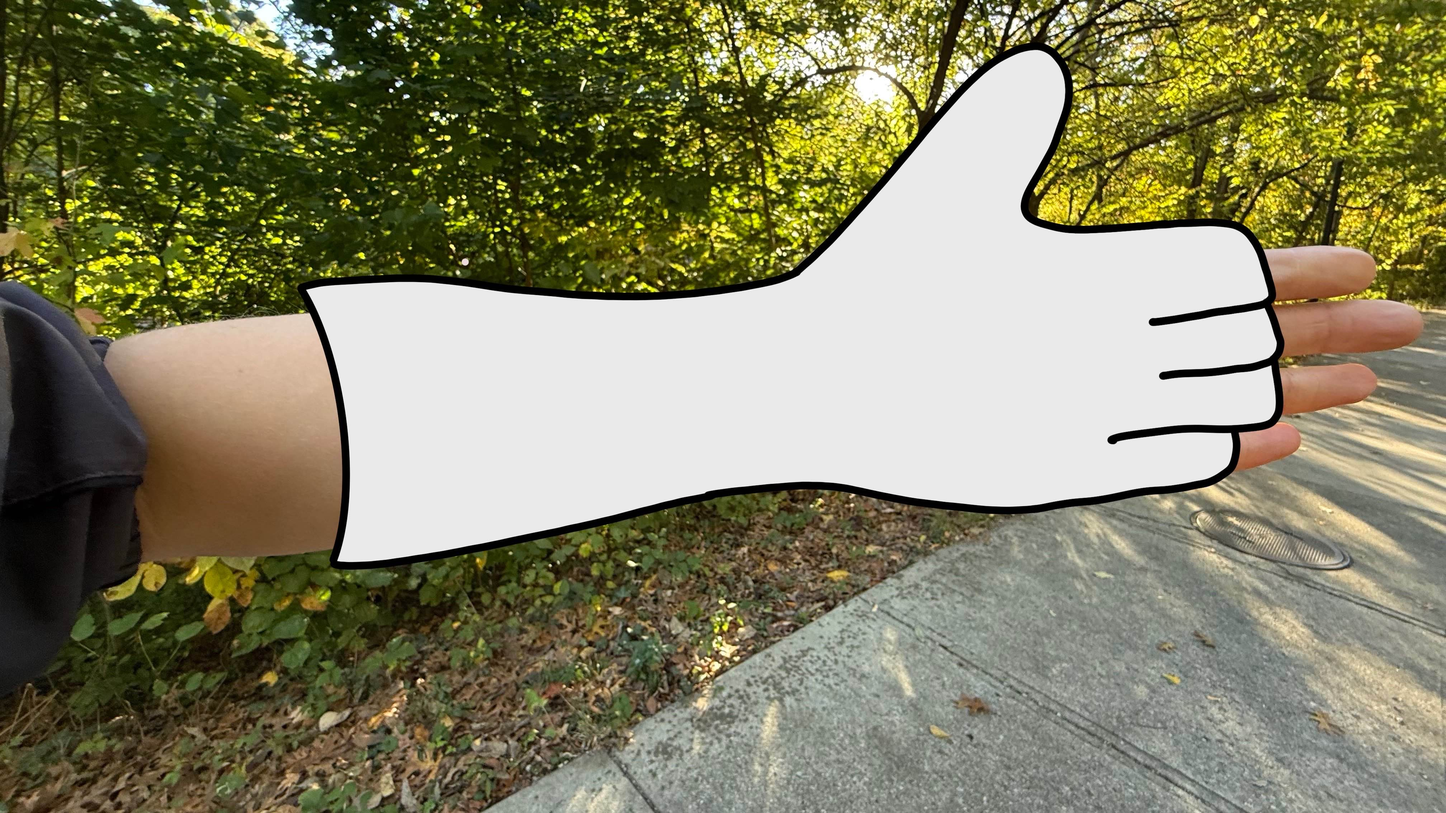
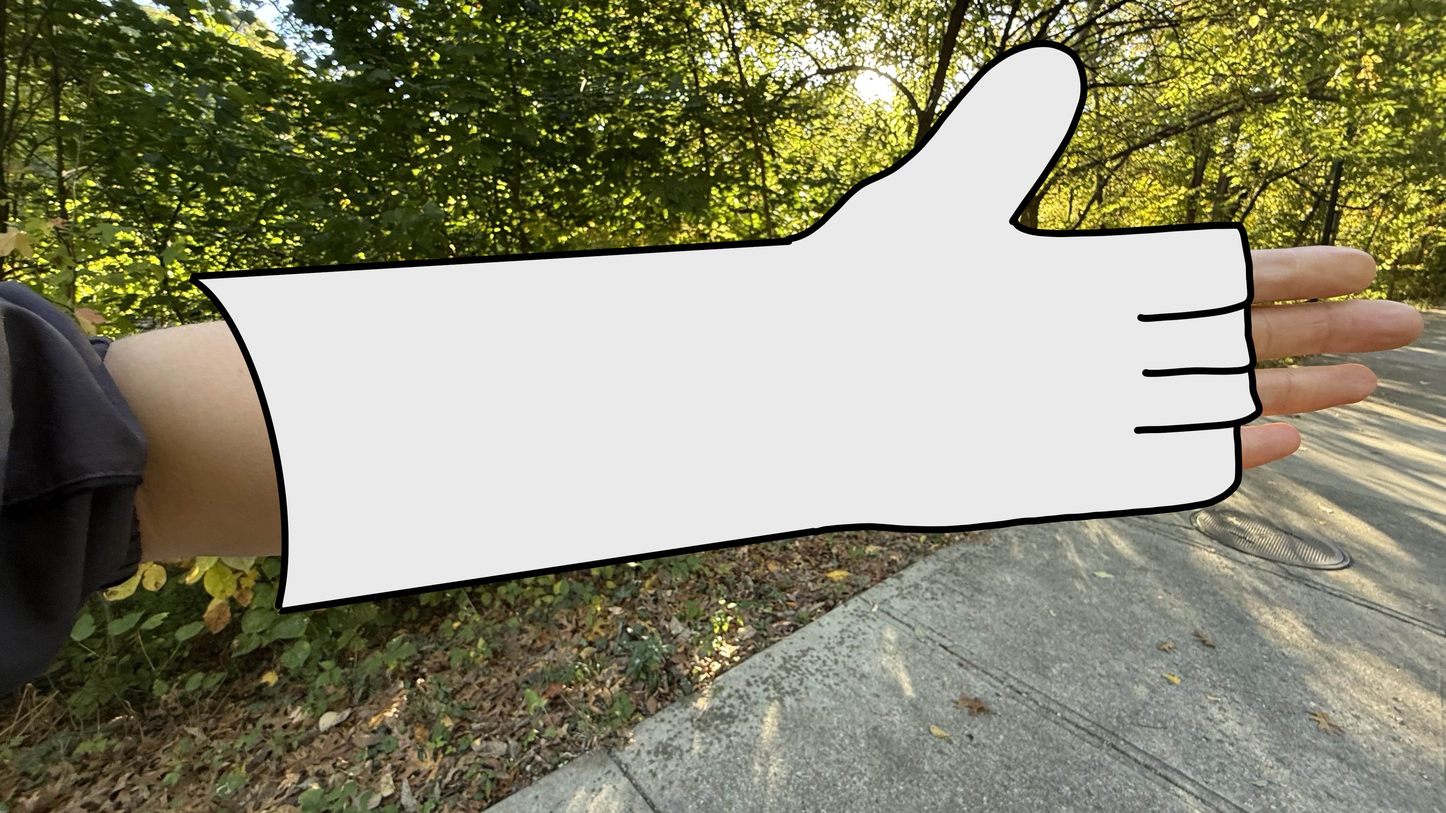
Background and rotation

diff --git a/my-svelte-app/src/HandCast.svelte b/my-svelte-app/src/HandCast.svelte
@@ -11,7 +11,7 @@
   let hydration = 50;
   let isLocked = false;
   let idleTimeout;
-  const IDLE_TIME = 60000; // 1 minute in milliseconds
+  const IDLE_TIME = 6000; // 1 minute in milliseconds
 
   function changePage(page) {
     currentPage = page;
@@ -111,7 +111,6 @@
 <header class="site-header">
   <div class="header-inner">
     <div class="brand">
-      <span class="logo">🩺</span>
       <span class="title">iCast</span>
     </div>
     <div class="tag">Medical Interface</div>
@@ -184,14 +183,12 @@
   .main-container {
     display: flex;
     flex-direction: row;
-    /* make room for fixed header */
     min-height: calc(100vh - 64px);
     padding-top: 64px;
     align-items: center;
     gap: 1rem;
-    /* Background image served from public/assets */
     background-image: url('/assets/images/arm.jpg');
-    background-size: cover;
+    background-size: 125%;
     background-position: center;
     background-repeat: no-repeat;
   }
@@ -230,18 +227,16 @@
     align-items: center;
     gap: 0.5rem;
     font-weight: bold;
-    font-size: 1.2rem;
-  }
-
-  .site-header .logo {
-    font-size: 2.4rem;
+    font-size: 1.5rem;
   }
 
   .site-header .tag {
     font-size: 1.5rem;
+    font-family: 'Courier New', monospace;
+    font-weight: bold;
     opacity: 0.9;
   }
-  /* pulse keyframes are defined in HealthStatsPage; remove duplicate animation here */
+
 
   button {
     margin: .3rem;
@@ -253,13 +248,15 @@
   }
   
   .screen-content {
+    transform: rotate(-7deg);
     background: var(--background-color);
     border-radius: 8px;
     padding: 10px;
-    /* Fixed size so it remains the same across scenes */
-    width: 720px; /* desktop/tablet fixed width - change as needed */
-    height: 310px; /* fixed height - change as needed */
-    overflow: hidden; /* prevent outer scroll, use inner scrolling for page-content */
+    margin-left: 180px;
+    margin-bottom: 55px;
+    width: 720px;
+    height: 310px;
+    overflow: hidden;
     color: var(--font-color);
     font-family: 'Courier New', monospace;
     font-size: clamp(12px, 1.5vmin, 24px);
